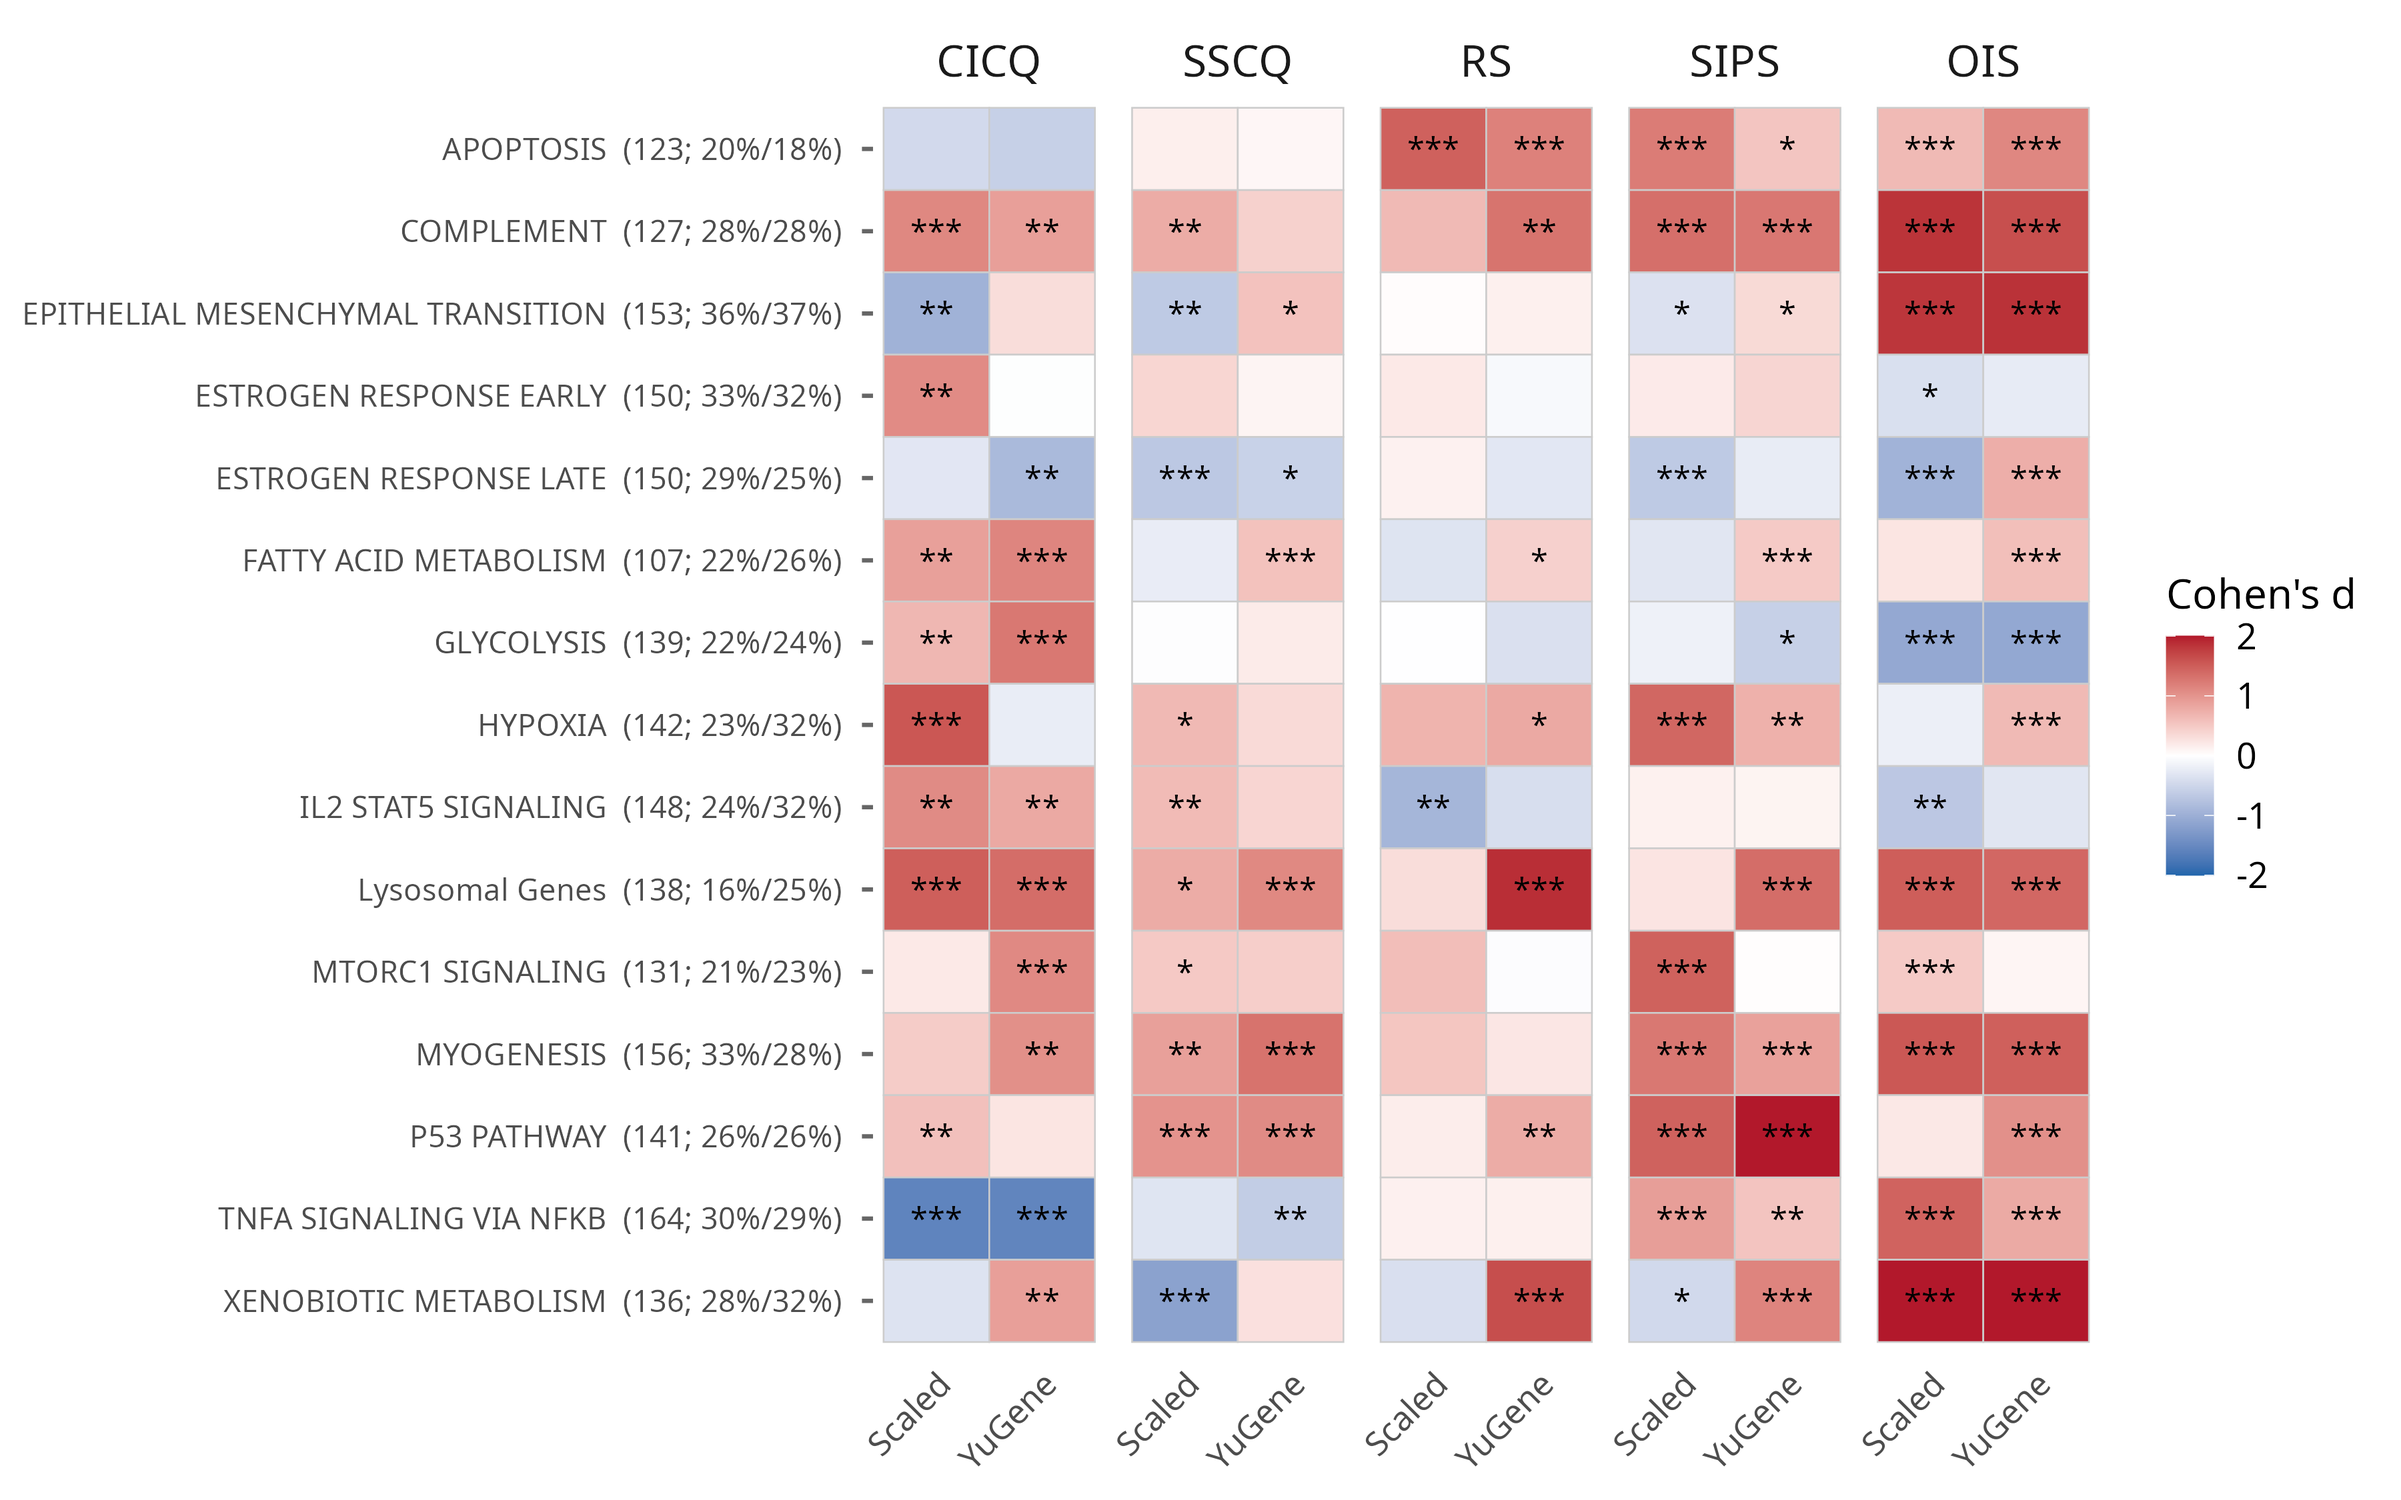
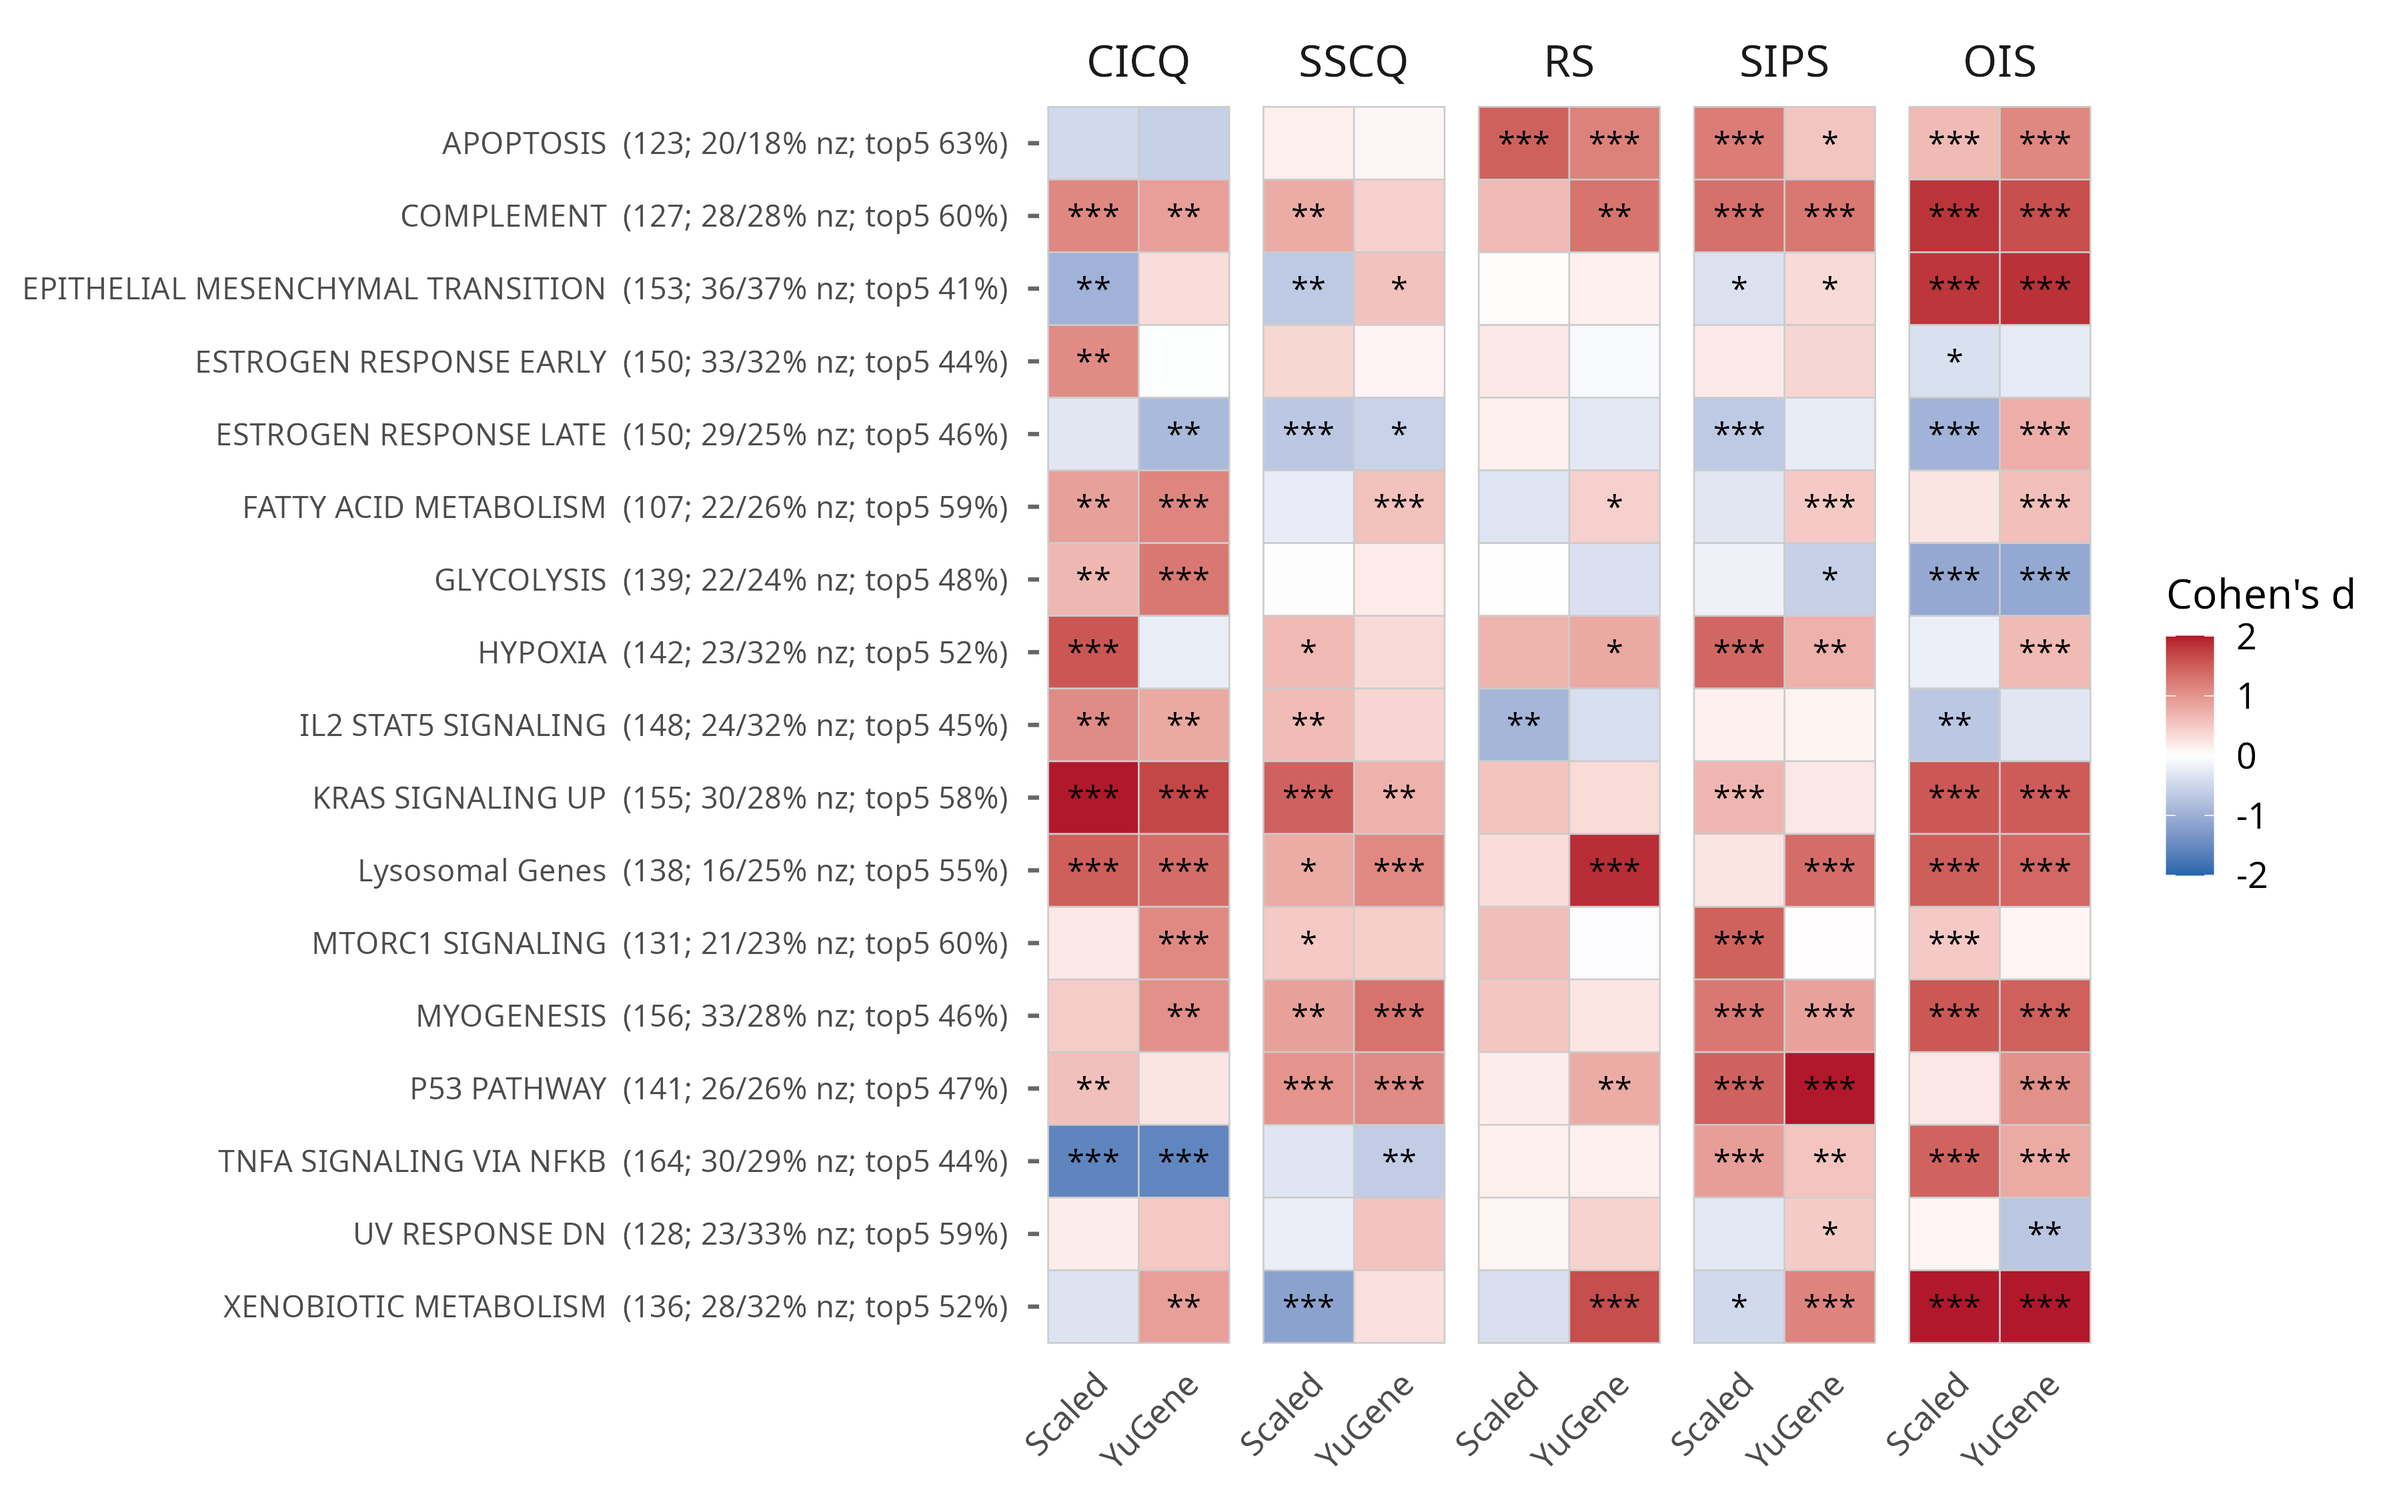
Replace the eff_n threshold with a stateable top-5 share gate (<=65%, 17 sets)
The eff_n >= 9 cut could not be justified as a number: it was eyeballed from the
distribution, sits only in the fourth-largest gap, materially changes the
Results if moved (>=10 drops COMPLEMENT/APOPTOSIS/MTORC1; >=12 also drops the
lysosomal set), and is non-monotone in the quantity of interest -- it retained
MTORC1 at top-5 share 60% while excluding KRAS SIGNALING UP at 52%.

A relative rule (eff_n >= 10% of set size) was tested and is worse: eff_n
correlates with set size at rho 0.67, so dividing by size over-corrects to
rho -0.15 and becomes a small-set preference. It would admit NOTCH SIGNALING
and PANCREAS BETA CELLS (entire contribution in five genes, top-5 = 100%) while
excluding TNFA SIGNALING VIA NFKB (50 contributing genes). Rejected.

Adopted: a set is interpreted at set level only if its five largest-contributing
genes carry <=65% of its total contribution under BOTH models. 17 of 50 sets.
Directly interpretable, monotone in the quantity of interest, rho 0.95 with
-eff_n, and a stipulation rather than an empirical threshold.

Also recorded: the gate is structural, not a caveat. Excluded sets are absent
from main figures entirely, because a prose caveat does not stop a large Cohen's
d with three stars reading as a finding.

Net change to the plotted sets: adds KRAS SIGNALING UP (top-5 58%; significant
in CICQ, SSCQ, OIS and Fibroblast 20 days) and UV RESPONSE DN (top-5 59%;
admitted by the gate but no both-model significant effect anywhere -- reported
[…]

diff --git a/bulk_RNA_seq/exploratory/14_pathway_representation.py b/bulk_RNA_seq/exploratory/14_pathway_representation.py
@@ -19,10 +19,15 @@ Metrics, computed on the meta-analysis matrix (n=230, the largest):
   top1, top5   share of the set's total |contribution| from its largest
                1 and 5 genes
 
-Suggested tiers (used in DISCREPANCY_REPORT/PARTIAL_TAGE_VALIDITY.md):
-  WELL     eff_n >= 14 on BOTH models
-  MODERATE eff_n >= 9  on both
-  POOR     otherwise -- do not make pathway-level claims from these
+GATE (top5_max <= 0.65). A set is interpreted at set level only if its five
+largest-contributing genes carry no more than 65% of its total contribution
+under BOTH models. 17 of 50 sets qualify. This replaced an earlier eff_n >= 9
+threshold, which selected an almost identical list but could not be justified as
+a number and was non-monotone in the quantity of interest: it retained MTORC1
+(top5 60%) while excluding KRAS SIGNALING UP (top5 52%). Filtering directly on
+top5 removes that artefact, is stateable in one clause, and is a stipulation
+about what may be called a set-level effect rather than an empirical threshold.
+eff_n is still reported alongside (rho 0.95 with -top5).
 
 Output: rerun_outputs/pathway_representation.csv
 """
@@ -34,6 +39,7 @@ import pandas as pd
 
 warnings.filterwarnings("ignore")
 
+TOP5_CUT = 0.65   # five largest genes may carry at most this share, both models
 MODELS = {"scaled": "EN_Chronoage_Multispecies_Multitissue_scaleddiff.pkl",
           "yugene": "EN_Chronoage_Multispecies_Multitissue_yugenediff.pkl"}
 EXPR = {"scaled": "meta_scaled_diff.csv", "yugene": "meta_yugene_diff.csv"}
@@ -84,9 +90,18 @@ def representation(rerun_dir, model_dir, mapping="hallmark_pathway_mouse_ids.csv
 
     d = frames["scaled"].join(frames["yugene"], lsuffix="_scaled", rsuffix="_yugene")
     d["eff_n_min"] = d[["eff_n_scaled", "eff_n_yugene"]].min(axis=1)
-    d["tier"] = np.where(d.eff_n_min >= 14, "WELL",
-                np.where(d.eff_n_min >= 9, "MODERATE", "POOR"))
-    return d.sort_values("eff_n_min", ascending=False)
+    # PRIMARY CRITERION (top5_max): worst-case share of the set's total contribution
+    # carried by its five largest genes, across the two models. Used as the gate
+    # because it is directly interpretable -- "five genes carry X% of this set's
+    # signal" -- and because it is monotone in the quantity of interest, which
+    # eff_n is not (eff_n retained MTORC1 at top5 60% while excluding KRAS
+    # SIGNALING UP at top5 52%). eff_n is retained as a reported companion
+    # statistic; the two agree at rho 0.95.
+    d["top5_max"] = d[["top5_scaled", "top5_yugene"]].max(axis=1)
+    d["top1_max"] = d[["top1_scaled", "top1_yugene"]].max(axis=1)
+    d["interpretable"] = d.top5_max <= TOP5_CUT
+    d["tier"] = np.where(d.interpretable, "INTERPRETABLE", "GENE-DOMINATED")
+    return d.sort_values("top5_max")
 
 
 if __name__ == "__main__":
@@ -96,7 +111,7 @@ if __name__ == "__main__":
     out = f"{rerun_dir}/pathway_representation.csv"
     d.to_csv(out)
     print(d[["n_clock_scaled", "n_nonzero_scaled", "n_nonzero_yugene",
-             "eff_n_scaled", "eff_n_yugene", "eff_n_min", "tier"]].to_string(
-             float_format=lambda x: f"{x:7.1f}"))
-    print(f"\ntiers: {dict(d.tier.value_counts())}")
+             "top1_max", "top5_max", "eff_n_min", "tier"]].to_string(
+             float_format=lambda x: f"{x:7.2f}"))
+    print(f"\ntiers (top5 <= {TOP5_CUT:.0%}): {dict(d.tier.value_counts())}")
     print(f"Saved -> {out}")

diff --git a/bulk_RNA_seq/DISCREPANCY_REPORT/PARTIAL_TAGE_VALIDITY.md b/bulk_RNA_seq/DISCREPANCY_REPORT/PARTIAL_TAGE_VALIDITY.md
@@ -160,6 +160,42 @@ spreads weight across that module's genes instead of letting global competition 
 That is the substantive methodological point behind the scRNA arm's observation — not the
 gene-contribution definition, which is fine.
 
+## GATE ADOPTED: top-5 share <= 65% (decision 2026-08-17, supersedes the eff_n threshold below)
+
+The eff_n >= 9 threshold used in Test 3b **could not be justified as a number** and has been
+replaced. Two problems with it:
+
+1. **Arbitrary.** 9 was chosen by eye from the distribution. It sits in a gap (9.7 -> 8.3) but only
+   the fourth-largest one, and moving it materially changes the Results: >=10 drops COMPLEMENT,
+   APOPTOSIS and MTORC1; >=12 also drops the lysosomal set.
+2. **Non-monotone in the quantity of interest.** It retained MTORC1 (top-5 share 60%) while
+   excluding KRAS SIGNALING UP (top-5 share **52%**) -- i.e. it excluded a *less* concentrated set
+   than one it kept, because eff_n depends on the whole share distribution.
+
+A relative alternative (eff_n as a fraction of set size, >=10%) was tested and is **worse**: eff_n
+correlates with set size at rho 0.67, so dividing by size over-corrects to rho -0.15 and turns the
+rule into a small-set preference. It would admit NOTCH SIGNALING and PANCREAS BETA CELLS, whose
+*entire* contribution sits in five genes (top-5 = 100%), while excluding TNFA SIGNALING VIA NFKB
+(eff_n 16.3, 50 contributing genes). Rejected.
+
+**Adopted criterion:** a set is interpreted at set level only where its **five largest-contributing
+genes carry no more than 65% of its total contribution under both models**. This yields **17 of 50
+sets**. It is directly interpretable, monotone in the quantity of interest, correlates with eff_n at
+rho 0.95, and is a *stipulation* about what may be called a set-level effect rather than an
+empirical threshold requiring justification.
+
+**Also decided: the gate is structural, not a caveat.** Excluded sets do not appear in main figures
+at all. A prose caveat does not stop a large Cohen's d with three significance stars reading as a
+finding; removing the row does.
+
+Relative to the eff_n >= 9 list this adds two sets: **KRAS SIGNALING UP** (top-5 58%; significant in
+CICQ +2.32/+1.69, SSCQ +1.46/+0.73, OIS +1.55/+1.51, and Fibroblast 20 days +6.91/+9.07) and
+**UV RESPONSE DN** (top-5 59%; admitted by the gate but with no both-model significant effect in any
+comparison -- reported for completeness, contributes no claim).
+
+eff_n remains in `pathway_representation.csv` as a companion statistic. The tier language below is
+superseded; read it for the underlying numbers, not for the gate.
+
 ## Test 3b — which gene sets ARE well represented? (added 2026-08-17)
 
 Test 3's medians hide a real gradient, so representation was computed per gene set:
